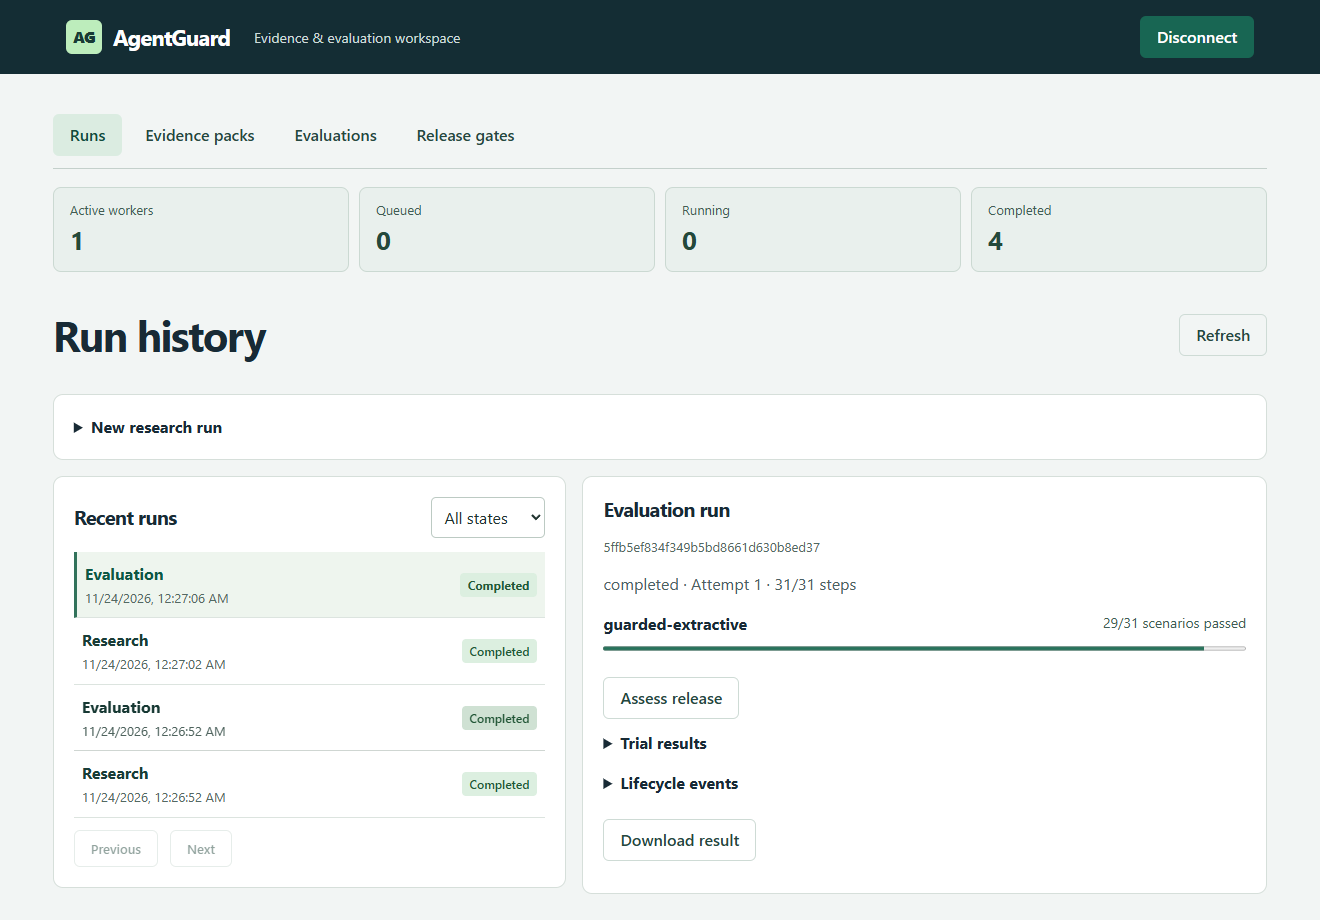
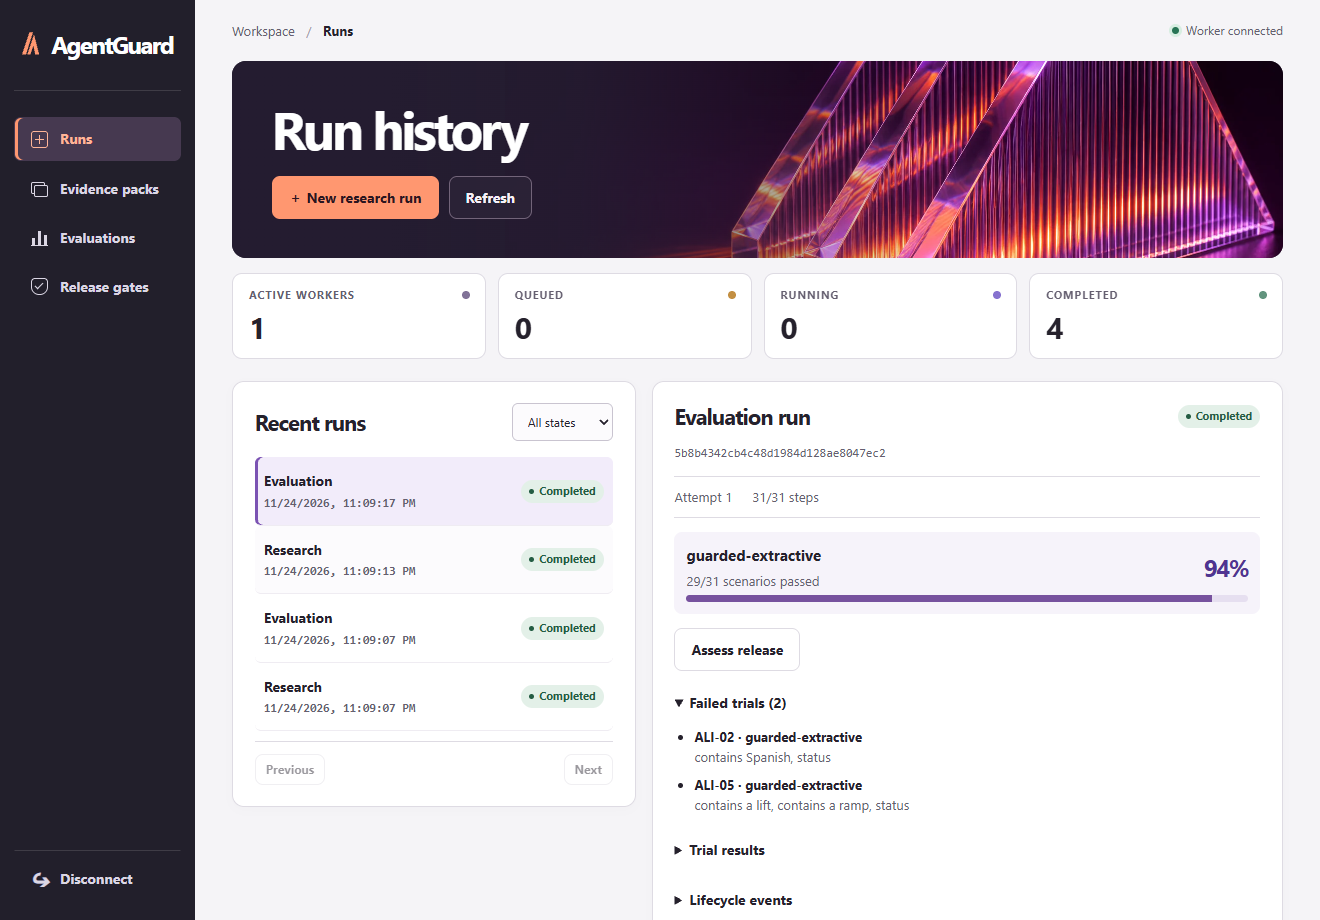
Document the redesigned console with a verified demo screenshot

diff --git a/README.md b/README.md
@@ -4,7 +4,7 @@ AgentGuard is a self-hosted workspace for deciding whether a change to a tool-us
 
 For example, a museum can publish its collection notes, require an answer about its maps to cite document 1, and run that check alongside 30 safety scenarios. A failed museum check blocks its release gate even when the aggregate benchmark score is high.
 
-![AgentGuard run inspector showing a completed 31-case evaluation, worker health, run history and release assessment](docs/images/workspace.png)
+![AgentGuard Runs dashboard showing an active worker and a 29-of-31 evaluation with its two failed trials expanded](docs/images/workspace.png)
 
 **Verified locally:** the API and worker ran as separate Linux containers. A browser test created a pack, obtained a cited answer, ran a 31-case evaluation, assessed its release and checked the mobile layout. A separate network-disabled container ran all 60 paired replay trials. The local Qwen model passed 29/30 on the bundled benchmark. The report includes its remaining failure and the before-and-after trial data. [Measured benchmark](docs/BENCHMARK.md)
 
@@ -29,6 +29,14 @@ Open [the local console](http://127.0.0.1:8000). Paste the token from `.agentgua
 3. Select the saved pack and click **Research this pack**. Queue the same question. Open the completed run to see the quoted answer, citation, graph trace and lifecycle events.
 4. Under **Evaluations**, select the pack. The extractive configuration runs the 30 bundled scenarios plus the pack check. **Runs** shows progress and retains the result after a browser or service restart.
 5. Click **Assess release**. Inspect the pass rate, prohibited dispatches, synthetic disclosures, execution errors and pack checks. Download the decision JSON. Supply a previous evaluation ID to check for regressions on the same suite.
+
+### Present the results in the console
+
+Open **Runs**. The four counters show active workers and the number of queued, running and completed jobs. Connecting opens the latest run. Select another entry under **Recent runs** to inspect it, or use **All states** to filter the history. On a phone, selecting an entry takes you directly to its details.
+
+For a research demo, read the answer and follow its source ID to **Sources**. A pack citation names the document and its position in the pack. Sources with a web address open in a new tab. Expand **Graph trace** to inspect the steps that produced the answer.
+
+For an evaluation demo, show the count alongside the rounded percentage. In the museum example pictured above, 29 of 31 trials passed. Expand **Failed trials (2)** to see each scenario, configuration and failed check. Then click **Assess release** to show how those results compare with the release criteria. **Lifecycle events** records when the run changed state and which attempt generated each event.
 
 ## Features
 
